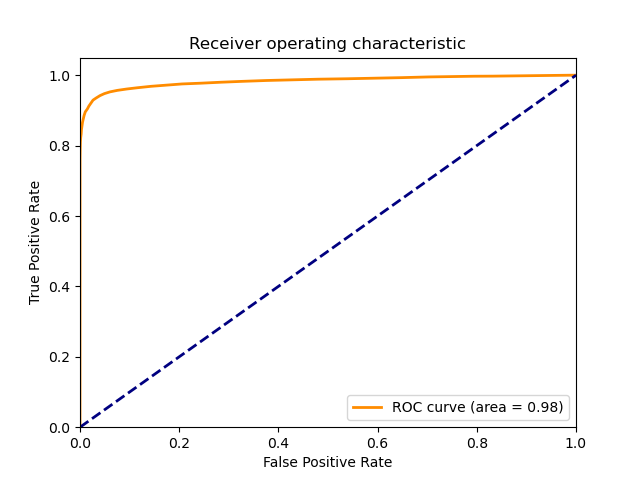
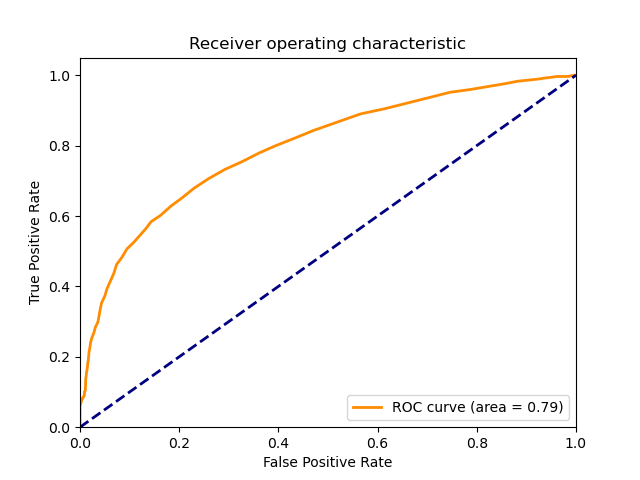
?

diff --git a/draw_cam.py b/draw_cam.py
@@ -1,0 +1,100 @@
+import torch
+import torch.backends.cudnn as cudnn
+from torchcam.methods import SmoothGradCAMpp
+from torchvision.io.image import read_image
+from torchvision.transforms.functional import normalize, resize, to_pil_image
+from nets.arcface import Arcface
+from utils.dataloader import TestDataset
+from utils.utils_metrics import test
+from torchcam.methods import SmoothGradCAMpp
+import matplotlib.pyplot as plt
+from torchcam.utils import overlay_mask
+import matplotlib.pyplot as plt
+from torchcam.utils import overlay_mask
+if __name__ == "__main__":
+    # --------------------------------------#
+    #   是否使用Cuda
+    #   没有GPU可以设置成False
+    # --------------------------------------#
+    cuda = True
+    # --------------------------------------#
+    #   主干特征提取网络的选择
+    #   mobilefacenet
+    #   mobilenetv1
+    #   iresnet18
+    #   iresnet34
+    #   iresnet50
+    #   iresnet100
+    #   iresnet200
+    # --------------------------------------#
+    backbone = "mobilefacenet"
+    # --------------------------------------#
+    #   输入图像大小
+    # --------------------------------------#
+    input_shape = [112, 112, 3]
+    # --------------------------------------#
+    #   训练好的权值文件
+    # --------------------------------------#
+    model_path = "result/mobileface-webocc-lfw/ep034-loss4.674-val_loss5.314.pth"
+    # --------------------------------------#
+    #   LFW评估数据集的文件路径
+    #   以及对应的txt文件
+    # --------------------------------------#
+    lfw_dir_path = "mlfw_dataset/mlfw_aligned_dir/"
+    lfw_pairs_path = "mlfw_dataset/mlfw_pairs.txt"
+    # --------------------------------------#
+    #   评估的批次大小和记录间隔
+    # --------------------------------------#
+    batch_size = 64
+    log_interval = 1
+    # --------------------------------------#
+    #   ROC图的保存路径
+    # --------------------------------------#
+    png_save_path = "model_data/roc_test.png"
+
+    test_loader = torch.utils.data.DataLoader(
+        TestDataset(dir=lfw_dir_path, pairs_path=lfw_pairs_path, image_size=input_shape), batch_size=batch_size,
+        shuffle=False, drop_last=False)
+
+    model = Arcface(backbone=backbone, mode="predict")
+
+    print('Loading weights into state dict...')
+    device = torch.device('cuda' if torch.cuda.is_available() else 'cpu')
+    model.load_state_dict(torch.load(model_path, map_location=device), strict=False)
+
+    model = model.eval()
+    cam_extractor = SmoothGradCAMpp(model)
+    times = 0
+    img_path = "mlfw_dataset/mlfw_aligned_dir/Aaron_Eckhart/Aaron_Eckhart_0001_0000.jpg"
+
+    img = read_image(img_path)
+    # Preprocess it for your chosen model
+    input_tensor = normalize(resize(img, (112, 112)) / 255., [0.485, 0.456, 0.406], [0.229, 0.224, 0.225])
+
+    # Preprocess your data and feed it to the model
+    out = model(input_tensor.unsqueeze(0))
+    # Retrieve the CAM by passing the class index and the model output
+    activation_map = cam_extractor(out)
+    import matplotlib.pyplot as plt
+    from torchcam.utils import overlay_mask
+
+    # Resize the CAM and overlay it
+    result = overlay_mask(to_pil_image(img), to_pil_image(activation_map[0].squeeze(0), mode='F'), alpha=0.5)
+    # Display it
+    plt.imshow(result);
+    plt.axis('off');
+    plt.tight_layout();
+    plt.show()
+    # for (data_a, data_p, label) in test_loader:
+    #     if times == 1:
+    #         break
+    #     out_a = model(data_a)
+    #     out_p = model(data_p)
+    #     times += 1
+    #
+    #     activation_map = cam_extractor(0, out_a)
+        # result = overlay_mask(out_a, to_pil_image(activation_map[0].squeeze(0), mode='F'), alpha=0.5)
+        # plt.imshow(result);
+        # plt.axis('off');
+        # plt.tight_layout();
+        # plt.show()

diff --git a/eval_LFW.py b/eval_LFW.py
@@ -4,7 +4,7 @@ import torch.backends.cudnn as cudnn
 from nets.arcface import Arcface
 from utils.dataloader import TestDataset
 from utils.utils_metrics import test
-
+from torchcam.methods import SmoothGradCAMpp
 
 if __name__ == "__main__":
     #--------------------------------------#
@@ -30,13 +30,13 @@ if __name__ == "__main__":
     #--------------------------------------#
     #   训练好的权值文件
     #--------------------------------------#
-    model_path      = "result/mobileface-webocc-lfw/ep034-loss4.674-val_loss5.314.pth"
+    model_path      = "model_data/arcface_mobilefacenet.pth"
     #--------------------------------------#
     #   LFW评估数据集的文件路径
     #   以及对应的txt文件
     #--------------------------------------#
-    lfw_dir_path    = "mlfw_dataset/mlfw_aligned_dir/"
-    lfw_pairs_path  = "mlfw_dataset/mlfw_pairs.txt"
+    lfw_dir_path    = "ROF/sunglasses"
+    lfw_pairs_path  = "ROF/glasses_pairs.txt"
     #--------------------------------------#
     #   评估的批次大小和记录间隔
     #--------------------------------------#
@@ -55,6 +55,7 @@ if __name__ == "__main__":
     print('Loading weights into state dict...')
     device = torch.device('cuda' if torch.cuda.is_available() else 'cpu')
     model.load_state_dict(torch.load(model_path, map_location=device), strict=False)
+
     model  = model.eval()
 
     if cuda:

diff --git a/nets/mobilefacenet_cbam_modify.py b/nets/mobilefacenet_cbam_modify.py
@@ -142,29 +142,36 @@ class MobileFaceNet(Module):
     def forward(self, x):
         x = self.conv1(x)
         x = self.conv2_dw(x)
+        x = self.ca(x) * x
+        x = self.sa(x) * x
+
         x = self.conv_23(x)
         x = self.conv_3(x)
+        x = self.ca(x) * x
+        x = self.sa(x) * x
+
         x = self.conv_34(x)
         x = self.conv_4(x)
+        x = self.ca(x) * x
+        x = self.sa(x) * x
+
         x = self.conv_45(x)
         x = self.conv_5(x)
+        x = self.ca(x) * x
+        x = self.sa(x) * x
 
         x = self.sep(x)
         x = self.sep_bn(x)
         x = self.prelu(x)
-
         x = self.GDC_dw(x)
         x = self.GDC_bn(x)
-
         x = self.features(x)
-
-        x = self.ca(x) * x
-        x = self.sa(x) * x
         x = self.last_bn(x)
+
         return x
 
 
-def get_mbf_cbam(embedding_size, pretrained):
+def get_mbf_cbam_modify(embedding_size, pretrained):
     if pretrained:
         raise ValueError("No pretrained model for mobilefacenet")
     return MobileFaceNet(embedding_size)

diff --git a/nets/arcface.py b/nets/arcface.py
@@ -10,6 +10,7 @@ from nets.iresnet import (iresnet18, iresnet34, iresnet50, iresnet100,
 from nets.mobilefacenet import get_mbf
 from nets.mobilenet import get_mobilenet
 from nets.mobilefacenet_cbam import get_mbf_cbam
+from nets.mobilefacenet_cbam_modify import get_mbf_cbam_modify
 class Arcface_Head(Module):
     def __init__(self, embedding_size=128, num_classes=10575, s=64., m=0.5):
         super(Arcface_Head, self).__init__()
@@ -57,6 +58,11 @@ class Arcface(nn.Module):
             embedding_size  = 128
             s               = 32
             self.arcface    = get_mbf_cbam(embedding_size=embedding_size, pretrained=pretrained)
+
+        elif backbone=="mobilefacenet_cbam_modify":
+            embedding_size  = 128
+            s               = 32
+            self.arcface    = get_mbf_cbam_modify(embedding_size=embedding_size, pretrained=pretrained)
 
         elif backbone=="mobilenetv1":
             embedding_size  = 512

diff --git a/train.py b/train.py
@@ -64,7 +64,7 @@ if __name__ == "__main__":
     #   如果使用mobilenetv1为主干,  则设置pretrain = True
     #   如果使用其它网络为主干，    则设置pretrain = False
     #--------------------------------------------------------#
-    backbone        = "mobilefacenet_cbam"
+    backbone        = "mobilefacenet_cbam_modify"
     #----------------------------------------------------------------------------------------------------------------------------#
     #   如果训练过程中存在中断训练的操作，可以将model_path设置成logs文件夹下的权值文件，将已经训练了一部分的权值再次载入。
     #   同时修改下方的训练的参数，来保证模型epoch的连续性。

diff --git a/utils/utils_metrics.py b/utils/utils_metrics.py
@@ -3,6 +3,8 @@ import torch
 from scipy import interpolate
 from sklearn.model_selection import KFold
 from tqdm import tqdm
+import matplotlib.pyplot as plt
+from torchcam.utils import overlay_mask
 
 def evaluate(distances, labels, nrof_folds=10):
     # Calculate evaluation metrics
@@ -111,6 +113,7 @@ def test(test_loader, model, png_save_path, log_interval, batch_size, cuda):
             #   获得预测结果的距离
             #--------------------------------------#
             out_a, out_p        = model(data_a), model(data_p)
+
             dists               = torch.sqrt(torch.sum((out_a - out_p) ** 2, 1))
 
         #--------------------------------------#
